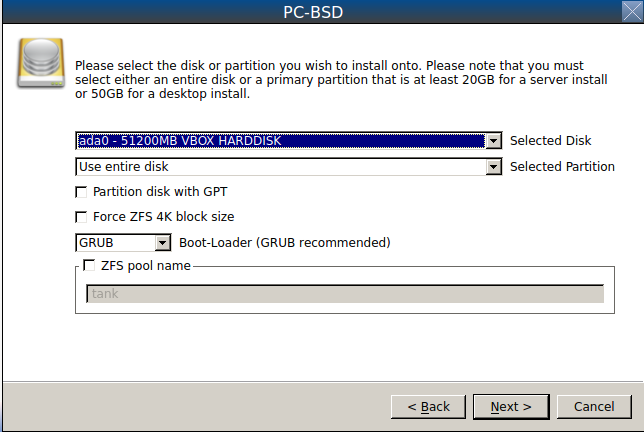
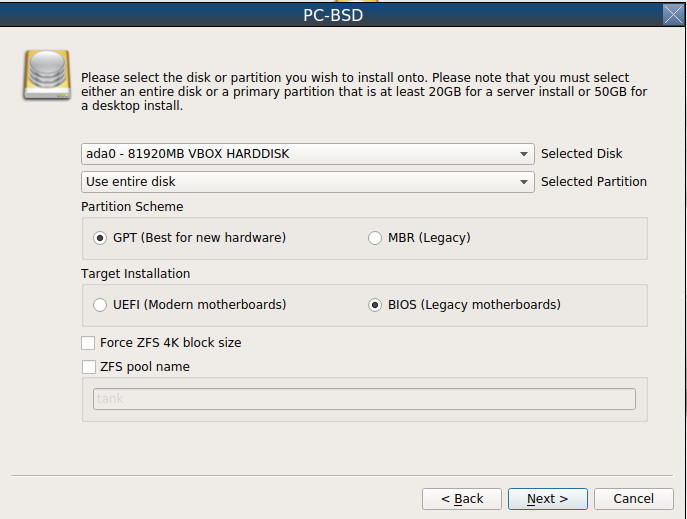
Update installer changes.

diff --git a/docs/install.rst b/docs/install.rst
@@ -137,18 +137,18 @@ The following components are available for installation.
 
 * **Mail:** check this box to install the `Thunderbird <https://www.mozilla.org/en-US/thunderbird/>`_ email client.
 
+* **MediaCenter:** if you expand the ► you can select to install `KODI <http://kodi.tv/>`_ and `PlexHome Theater <https://plex.tv/>`_.
+
 * **Net:** check this box to install the `KRDC <http://kde.org/applications/internet/krdc/>`_ remote desktop client.
 
 * **Net-IM:** check this box to install the `Pidgin <http://www.pidgin.im/>`_ IRC client.
 
 * **Roles:** if you expand the ► you can select to install the following installation roles. Click the hyperlink for each role to see the software installed
-  with it: `Art and Photography <https://github.com/pcbsd/pcbsd/blob/master/build-files/ports-overlay/misc/pcbsd-role-artphoto/Makefile>`_,
-  `AV Production <https://github.com/pcbsd/pcbsd/blob/master/build-files/ports-overlay/misc/pcbsd-role-avstudio/Makefile>`_,
+  with it: 
   `Development <https://github.com/pcbsd/pcbsd/blob/master/build-files/ports-overlay/misc/pcbsd-role-devel/Makefile>`_,
   `FreeNAS-Builder <https://github.com/pcbsd/pcbsd/blob/master/build-files/ports-overlay/misc/pcbsd-role-freenasbuild/Makefile>`_,
-  `Internet <https://github.com/pcbsd/pcbsd/blob/master/build-files/ports-overlay/misc/pcbsd-role-internet/Makefile>`_,
-  `Media <https://github.com/pcbsd/pcbsd/blob/master/build-files/ports-overlay/misc/pcbsd-role-media/Makefile>`_,
-  and `Office and Productivity <https://github.com/pcbsd/pcbsd/blob/master/build-files/ports-overlay/misc/pcbsd-role-office/Makefile>`_. 
+  `Internet <https://github.com/pcbsd/pcbsd/blob/master/build-files/ports-overlay/misc/pcbsd-role-internet/Makefile>`_, and
+  `Media <https://github.com/pcbsd/pcbsd/blob/master/build-files/ports-overlay/misc/pcbsd-role-media/Makefile>`_.
 
 * **Security:** check this box to install the `OpenVPN <http://openvpn.net/index.php/open-source.html>`_ VPN client.
 
@@ -247,15 +247,15 @@ If you select advanced mode, the wizard will display the screen shown in Figure 
 
 This screen provides the following options: 
 
-* **Partition disk with GPT:**  is a partition table layout that supports larger partition sizes than the traditional MBR layout.
-  **If your installation disk/partition is larger than 2 TB, this box must be checked**, otherwise checking this box is optional. Some older motherboards do
-  not support this option. If the installation fails with this option checked, try again with the box unchecked. When in doubt, leave this box unchecked.
+* **Partition Scheme:**  the default of "GPT (Best for new hardware)" is a partition table layout that supports larger partition sizes than the traditional "MBR (Legacy)" layout.
+  **If your installation disk/partition is larger than 2 TB, this option must be selectedd**. Some older motherboards do
+  not support this option. If the installation fails, try again with "MBR (Legacy)" selected. When in doubt, try the default selection first.
+
+* **Target Installation:** when installing to non-UEFI systems, keep the default selection of "BIOS (Legacy motherboards)". If the hardware supports UEFI, change the
+  selection to "UEFI (Modern motherboards)".
 
 * **Force ZFS 4k block size:** this option should only be checked if you know for sure that the disk supports 4k, even though it lies and reports its size as
   512b. Use with caution as it may cause the installation to fail.
-
-* **Boot-Loader:** changing the default of *GRUB* will disable  and break the updating mechanism.
-  **Do not change this default unless you are an expert GRUB user. Even if you are, you still probably do not want to change this default!**
 
 * **ZFS pool name:** if you wish to use a pool name other than the default of *tank*, check this box and input the name of the pool.
 
@@ -389,9 +389,9 @@ This screen can be used to configure full-disk encryption which is meant to prot
 type of encryption prevents the data on the disks from being available during bootup, unless the correct passphrase is typed at the bootup screen. Once the
 passphrase is accepted, the data is unencrypted and can easily be read from disk.
 
-To configure full disk encryption, check the box "Encrypt disk with GELI". This option will be greyed out if "Partition disk with GPT" is not selected as GELI
-does not support MBR partitioning at this time. If needed, use the "Back" button to go back to the screen and check the box for GPT partitioning. Once the
-"Encrypt disk with GELI" box is checked, input a good passphrase twice into the "Password" fields. This password should be long and something that you will
+To configure full disk encryption, check the box "Encrypt disk with GELI". This option will be greyed out if "GPT (Best for new hardware)" is not selected as GELI
+does not support MBR partitioning at this time. If needed, use the "Back" button to go back to the :ref:`Advanced Mode` screen and select the option "GPT (Best for
+new hardware)". Once the "Encrypt disk with GELI" box is checked, input a good passphrase twice into the "Password" fields. This password should be long and something that you will
 not forget, but hard for other users, especially those who know you, to guess.
 
 .. warning:: if you ever forget this passphrase, you will be unable to decrypt the disks and will lose access to their data!

diff --git a/docs/introduction.rst b/docs/introduction.rst
@@ -178,6 +178,12 @@ What's New in 10.1.2
 
 The following features or enhancements were introduced for PC-BSD® 10.1.2:
 
+* PC-BSD packages are now built with `LibreSSL <http://www.libressl.org/>`_ which has fewer vulnerabilities than OpenSSL.
+
+* `KODI <http://kodi.tv/>`_ and `PlexHome Theater <https://plex.tv/>`_ can be installed from the MediaCenter category of the :ref:`System Selection Screen` of the installer.
+
+* The options in the :ref:`Advanced Mode` screen of the installer have been streamlined.
+
 * IPFW is now the default firewall. :ref:`Firewall Manager` has been redesigned to use IPFW and its UI has been simplified to make it easier to use.
 
 .. index:: Linux
